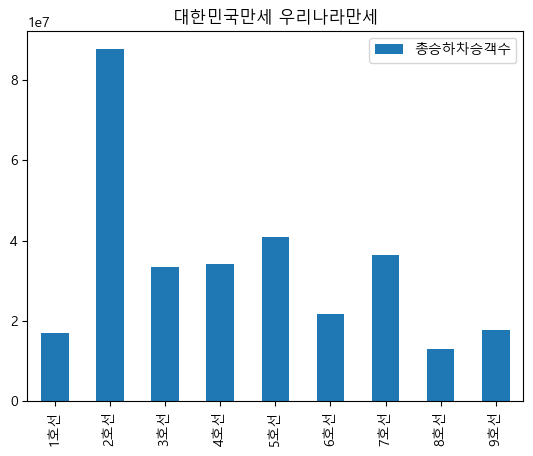
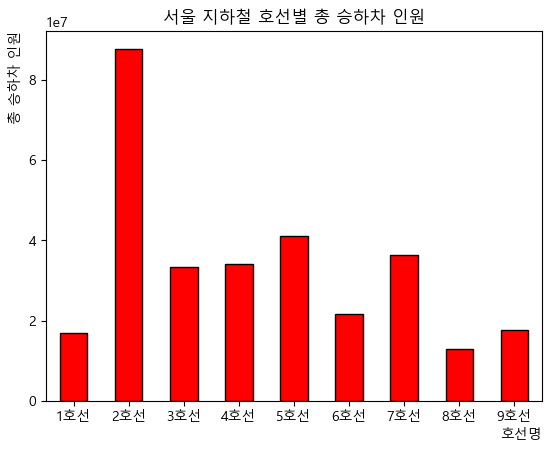
유임승객수를 호선명을 기준으로 그룹바이

Changed region(s): [[0.0, 0.0, 0.9906, 0.9912]]

diff --git a/20260705-일요실습1/20260705-일요실습1.md b/20260705-일요실습1/20260705-일요실습1.md
@@ -530,13 +530,13 @@ df_line[['호선명','총승하차승객수']].groupby('호선명').sum().head(9
 
 
 ```python
-plt.rc('font', family='Malgun Gothic')  
-df_line[['호선명','총승하차승객수']].groupby('호선명').sum().head(9).plot(kind='bar')
+df_line[['호선명','총승하차승객수']].groupby('호선명').sum().head(9).plot(kind='bar', color='r', edgecolor='k', rot=0, legend=False)
 
-plt.title('대한민국만세 우리나라만세')
-plt.xlabel('')
-plt.ylabel('')
-plt.show('')
+plt.rc('font', family='Malgun Gothic')  
+plt.title('서울 지하철 호선별 총 승하차 인원')
+plt.xlabel('호선명', loc='right')
+plt.ylabel('총 승하차 인원', loc='top')
+plt.show()
 ```
 
 
@@ -545,11 +545,7 @@ plt.show('')
     
 
 
-
-    
-![png](output_9_1.png)
-    
-
+#### 유임승객수를 호선명을 기준으로 그룹바이
 
 
 ```python